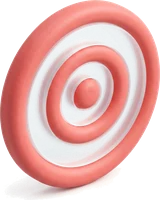
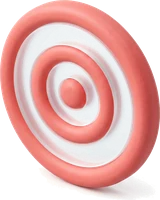
Turn the A-Level target to face left and fly the dart in flatter

diff --git a/index.html b/index.html
@@ -433,15 +433,16 @@ dialog.ptdlg{max-width:1040px;width:calc(100% - 24px);padding:18px 18px 14px}
 .hubcard .blob{position:absolute;right:-28px;bottom:-28px;width:100px;height:100px;border-radius:50%;background:color-mix(in srgb,var(--c) 14%,transparent)}
 .hubcard:disabled{cursor:not-allowed;opacity:.62}
 /* A-Level card: a dart waits up-left and hits the bullseye on hover/focus.
-   Stage 56×56: target 45×56 centred → bullseye at (29, 26.6); dart 34×34 with its tip in the bottom-right corner. */
+   Stage 56×56: target 45×56 centred, facing left → bullseye at (27, 26.5); dart 34×34 with its tip in the bottom-right corner,
+   tilted −12° around the tip so it flies in flatter, like the reference art. */
 .dartico{position:relative;display:block;width:56px;height:56px;flex:none;transition:transform .35s cubic-bezier(.34,1.56,.64,1)}
 .dartico img{position:absolute;mix-blend-mode:multiply}
-.dartico .tgt{left:5.5px;top:0;width:45px;height:56px;transform-origin:52% 47%}
-.dartico .dart{left:-16px;top:-20px;width:34px;height:34px;z-index:2;opacity:.6;transform:scale(.9);transform-origin:100% 100%;
+.dartico .tgt{left:5.5px;top:0;width:45px;height:56px;transform-origin:48% 47%}
+.dartico .dart{left:-16px;top:-20px;width:34px;height:34px;z-index:2;opacity:.6;transform:rotate(-12deg) scale(.9);transform-origin:100% 100%;
   transition:left .22s cubic-bezier(.2,1.3,.4,1),top .22s cubic-bezier(.2,1.3,.4,1),opacity .22s,transform .22s}
-.dartico .spark{position:absolute;left:25px;top:23px;width:8px;height:8px;border-radius:50%;z-index:3;pointer-events:none}
+.dartico .spark{position:absolute;left:23px;top:22.5px;width:8px;height:8px;border-radius:50%;z-index:3;pointer-events:none}
 .hubcard:not(:disabled):is(:hover,:focus-visible) .dartico{transform:translateY(-6px) scale(1.08)}
-.hubcard:not(:disabled):is(:hover,:focus-visible) .dartico .dart{left:-2px;top:-4px;opacity:1;transform:none}
+.hubcard:not(:disabled):is(:hover,:focus-visible) .dartico .dart{left:-3.5px;top:-4px;opacity:1;transform:rotate(-12deg)}
 .hubcard:not(:disabled):is(:hover,:focus-visible) .dartico .tgt{animation:bullseye .38s ease-out .08s}
 .hubcard:not(:disabled):is(:hover,:focus-visible) .dartico .spark{animation:sparkBurst .4s ease-out .08s}
 @keyframes bullseye{35%{transform:scale(.88) rotate(-5deg) translate(3px,2px)} 70%{transform:scale(1.05) rotate(2deg)}}
